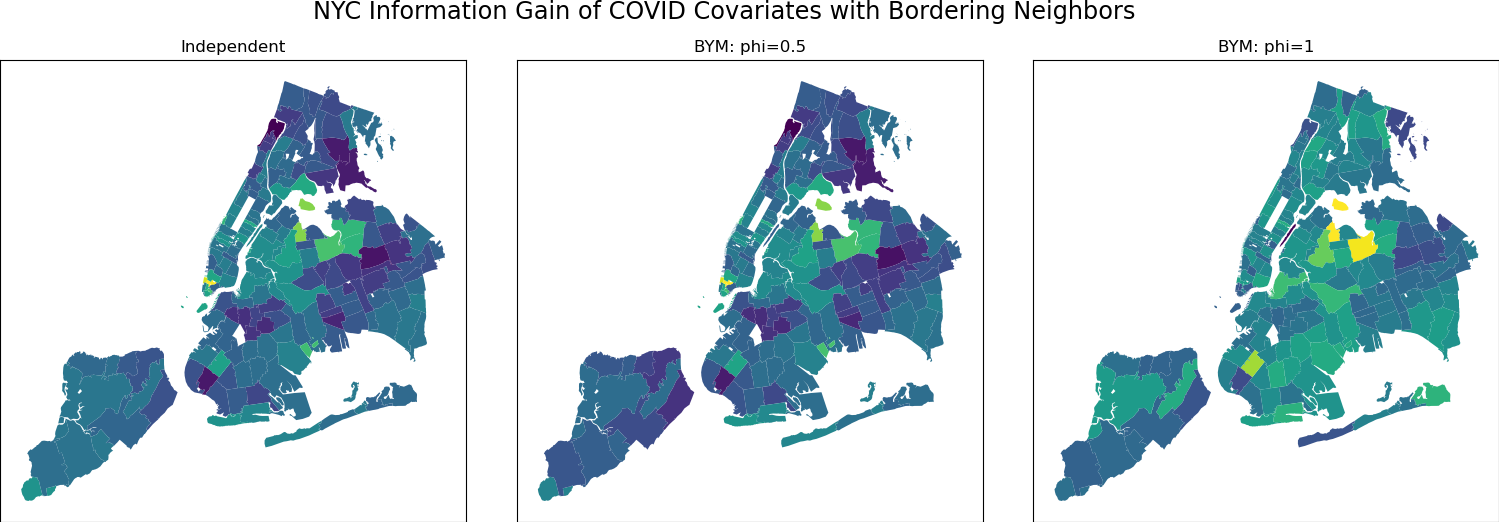
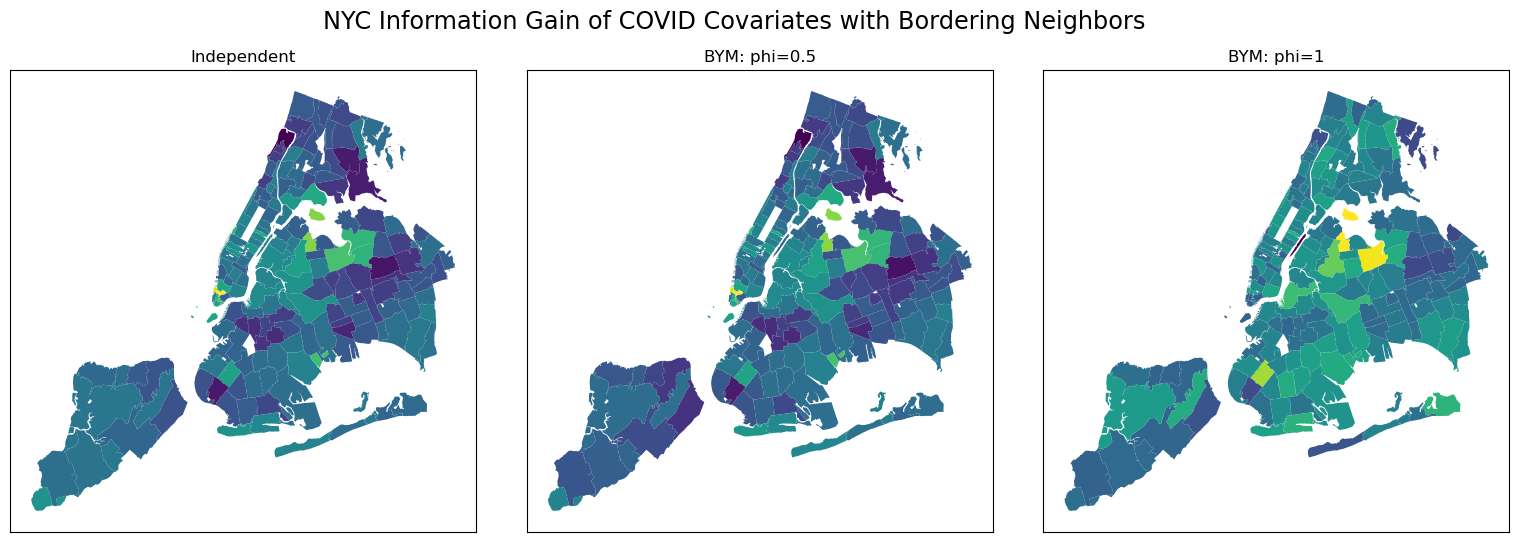
image clipping

diff --git a/bym_information.py b/bym_information.py
@@ -103,8 +103,8 @@ def bym_variance_covariance(design: list, spatial_correlation: list):
 
 if __name__ == "__main__":
     nyc = gpd.read_file("nyc/nyc.shp")
-    # neighbor_type = "Bordering" 
-    neighbor_type = "Bridged" 
+    neighbor_type = "Bordering" 
+    # neighbor_type = "Bridged" 
 
     # Variables
     cases = nyc["nyc_case"].to_numpy()
@@ -188,7 +188,7 @@ if __name__ == "__main__":
     figure.suptitle(title, fontsize="xx-large")
 
     file = f"{neighbor_type}_information_gain_nyc.png"
-    plt.savefig(file, bbox_inches="tight", pad_inches=0) 
+    plt.savefig(file, bbox_inches="tight") 
     plt.show()
 
 
